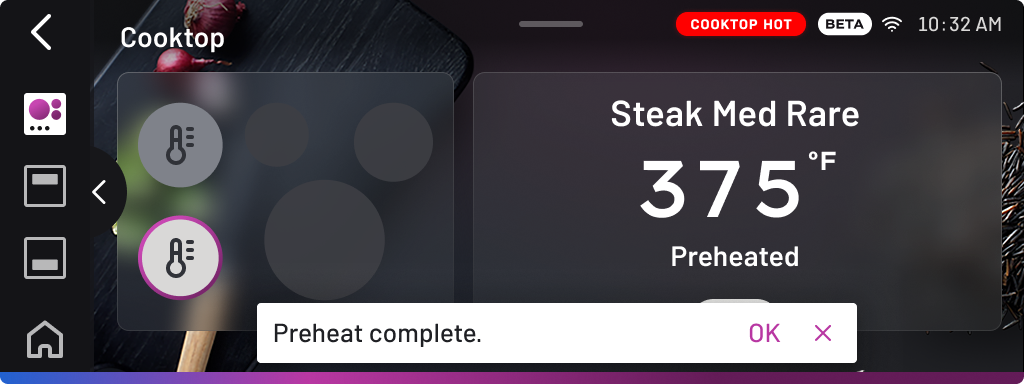
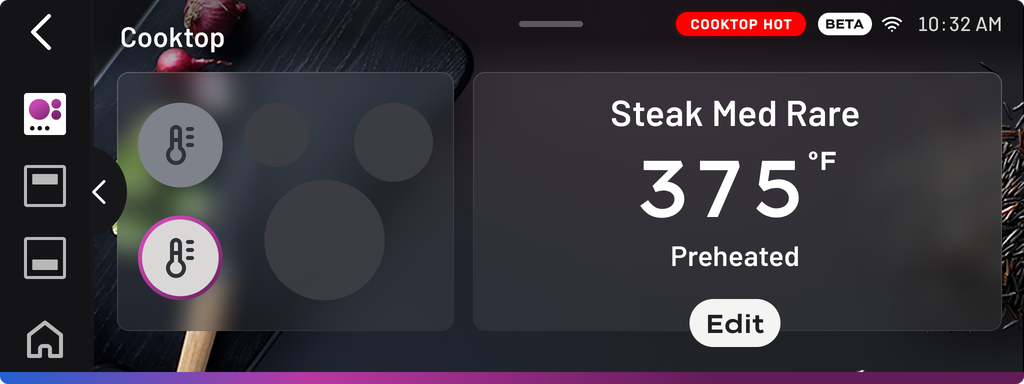
Fix edit button glitch on 3C-foodComplete and enable heat complete toast popup (Figma 2348:17501 & 2348:17541)

Changed region(s): [[0.25, 0.7812, 0.8438, 0.9688]]

diff --git a/index.html b/index.html
@@ -604,13 +604,6 @@
 
               <!-- Edit Temperature Pill Button -->
               <button type="button" class="t3-btn-edit-preheat" id="t3BtnEditPreheatFromComplete" aria-label="Edit Temperature"></button>
-
-              <!-- Preheat Complete Toast (Figma Node 2348-17541 with Spring Motion Animation) -->
-              <div class="t3-toast-card t3-toast-complete-card" id="t3ToastPreheatComplete">
-                <img class="t3-toast-complete-img" src="./assets/toast-preheat-complete.png" alt="Preheat complete. OK ✕">
-                <button type="button" class="t3-toast-complete-ok-btn" id="t3ToastCompleteOk" aria-label="OK"></button>
-                <button type="button" class="t3-toast-complete-close-btn" id="t3ToastCompleteClose" aria-label="Close Toast"></button>
-              </div>
             </div>
 
             <!-- 7. SCREEN: 3B-BURNER STATUS (COOKTOP OVERVIEW WITH TARGET TEMPERATURE) -->
@@ -1023,6 +1016,13 @@
               <button type="button" class="t3-back-btn" id="t3BtnBackFromTechComplete" aria-label="Back to Cooktop"></button>
               <!-- Edit button -->
               <button type="button" class="t3-food-edit-btn" id="t3BtnEditTechComplete" aria-label="Edit Technique Settings"></button>
+            </div>
+
+            <!-- PREHEAT COMPLETE TOAST (FIGMA 2348-17541 WITH SPRING MOTION ANIMATION - SHARED ACROSS COMPLETION SCREENS) -->
+            <div class="t3-toast-card t3-toast-complete-card" id="t3ToastPreheatComplete">
+              <img class="t3-toast-complete-img" src="./assets/toast-preheat-complete.png" alt="Preheat complete. OK ✕">
+              <button type="button" class="t3-toast-complete-ok-btn" id="t3ToastCompleteOk" aria-label="OK"></button>
+              <button type="button" class="t3-toast-complete-close-btn" id="t3ToastCompleteClose" aria-label="Close Toast"></button>
             </div>
 
           </div> <!-- /.task3-full-screen -->

diff --git a/app.js b/app.js
@@ -1197,6 +1197,14 @@
     if (stage !== "completed" && stage !== "foodComplete" && stage !== "techniqueComplete" && els.t3ToastPreheatComplete) {
       els.t3ToastPreheatComplete.classList.remove("is-visible");
       els.t3ToastPreheatComplete.classList.remove("is-dismissing");
+    } else if ((stage === "completed" || stage === "foodComplete" || stage === "techniqueComplete") && els.t3ToastPreheatComplete) {
+      requestAnimationFrame(() => {
+        setTimeout(() => {
+          if ((t3Stage === "completed" || t3Stage === "foodComplete" || t3Stage === "techniqueComplete") && els.t3ToastPreheatComplete) {
+            els.t3ToastPreheatComplete.classList.add("is-visible");
+          }
+        }, 50);
+      });
     }
 
     // Activity bar & Cooktop Hot indicator are active whenever any knob is turned on or cooking runs
@@ -3565,4 +3573,5 @@
     updateScreenBadge,
     updateCooktopActiveState
   };
+  window.PolarisApp = window.__polaris;
 })();

diff --git a/styles.css b/styles.css
@@ -3281,12 +3281,12 @@ html, body {
   pointer-events: none;
 }
 
-/* Food Edit Button */
+/* Food Edit Button (Figma 2348:17540) */
 .t3-food-edit-btn {
   position: absolute;
-  left: 580px;
-  top: 300px;
-  width: 110px;
+  left: 690px;
+  top: 299px;
+  width: 91px;
   height: 48px;
   background: transparent;
   border: none;
